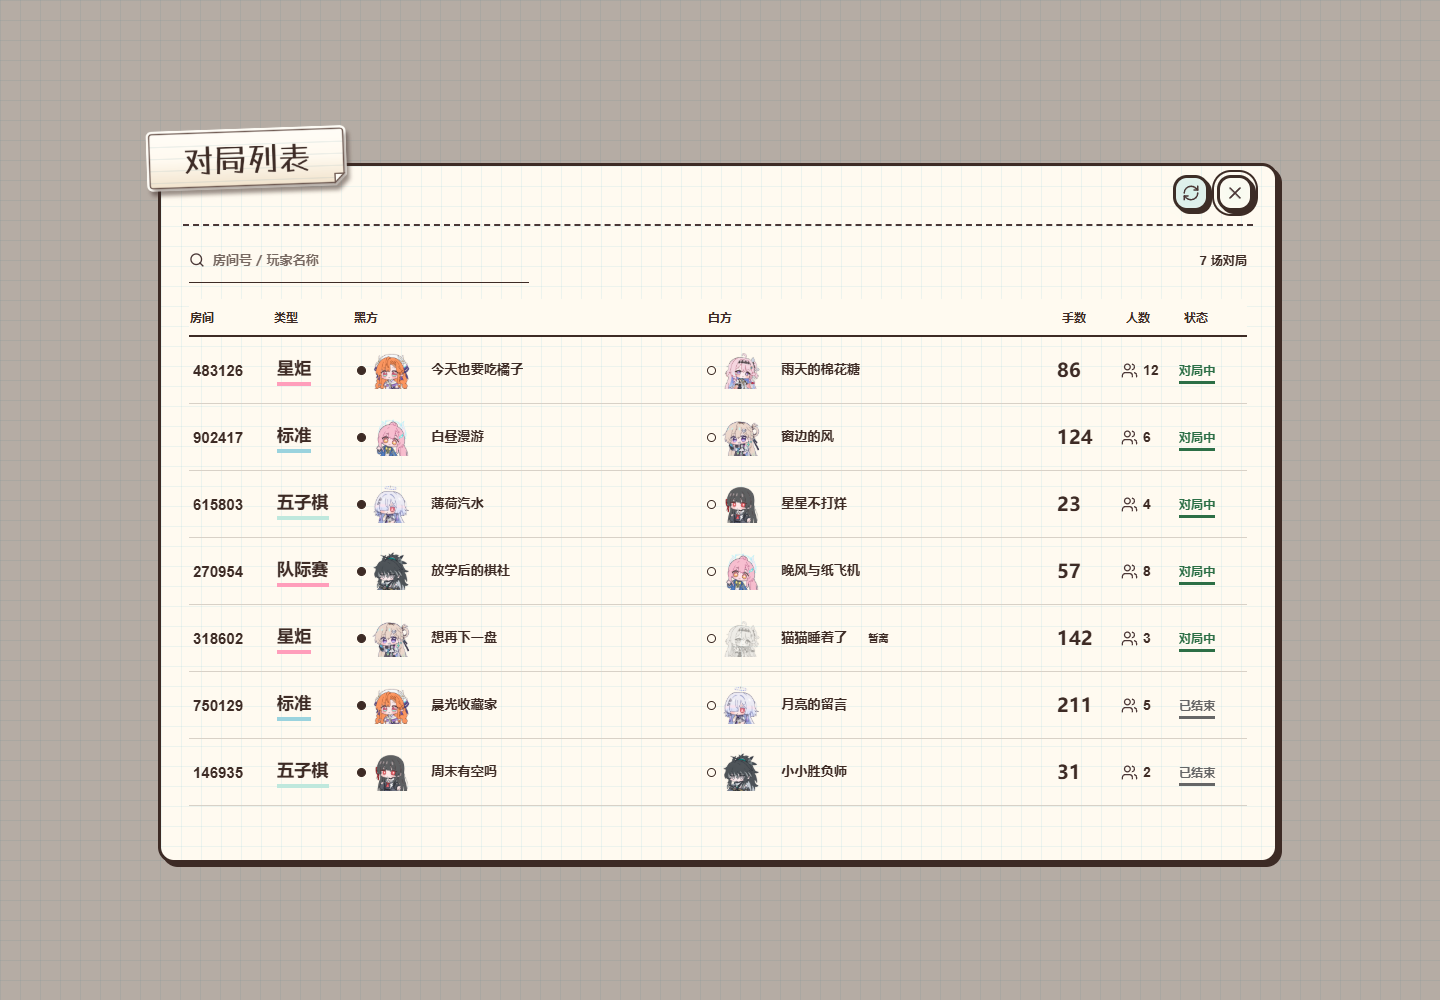
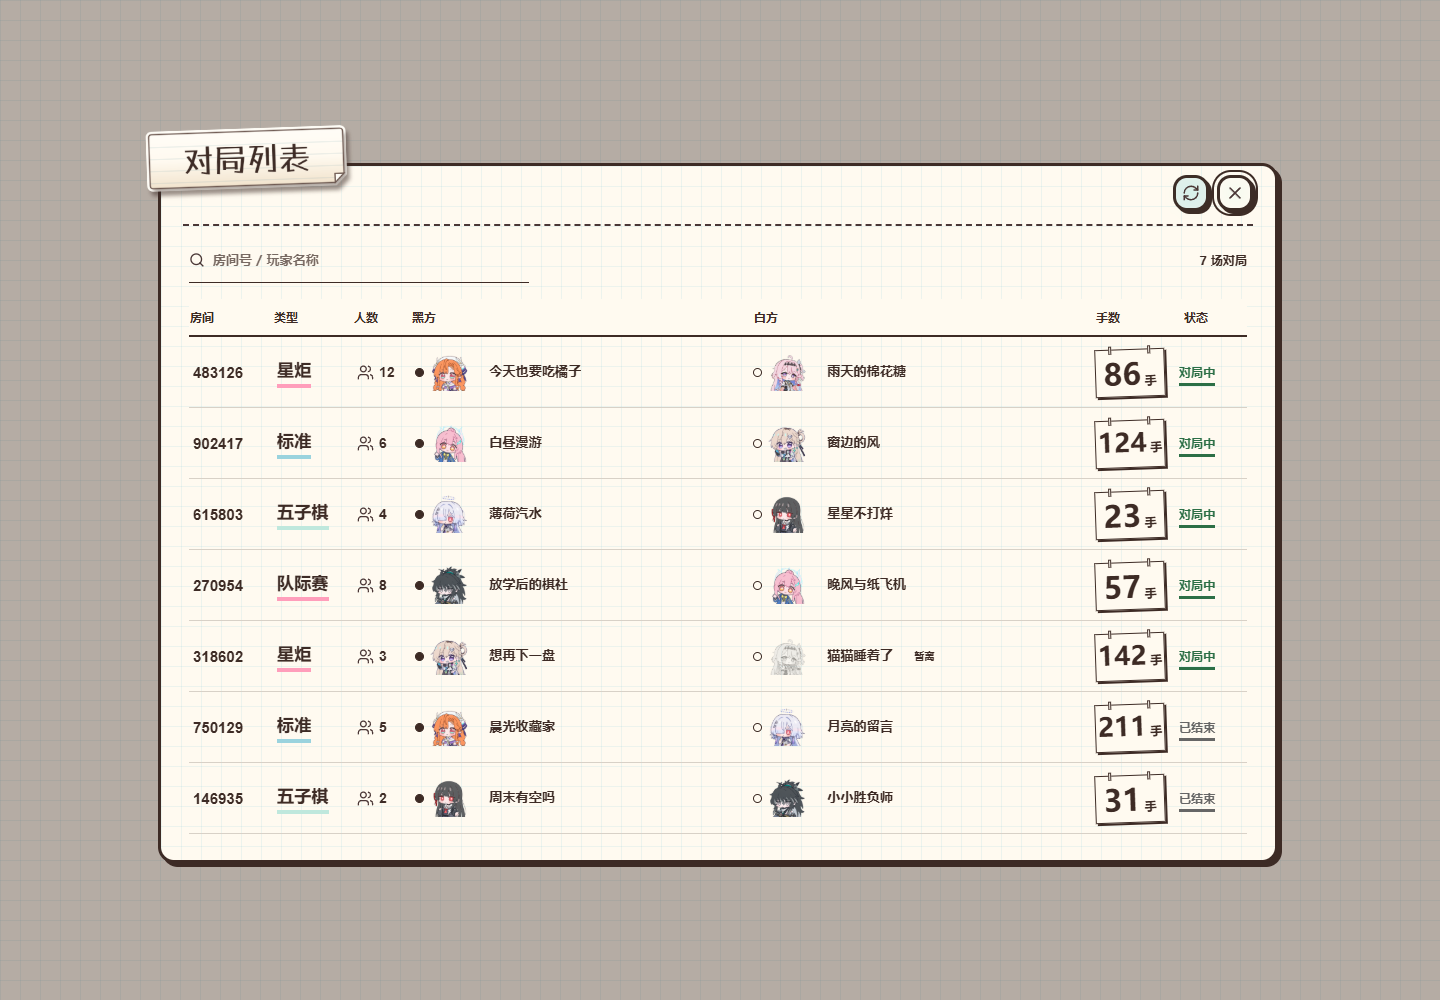
style(watch): share move placards and reorder desktop population

diff --git a/src/styles/cssLayerInventory.js b/src/styles/cssLayerInventory.js
@@ -10,7 +10,7 @@ export const CSS_DEBT_BASELINE = {
   scope: "Window loading adds 1035 normalized bytes, three targeted important declarations and reduced-motion coverage in the existing empty-state owner. Ordinary button states replace three repeated selector lists with one nested state owner, add complete press/focus/disabled/reduced-motion rules, and retire generic icon/action motion selectors. Specialty button opt-in removes dossier, purchase and recruitment state duplication while retaining artwork and geometry. All CSS files under src/styles after the import-only split work, including the focused normal/corrupted theme-transition visual structure and reduced-motion owners, the focused corrupted-duel atmosphere, panel, timer, control, icon, secondary-surface, mobile-readability, portaled system-log, lifecycle, replay/result, and dialogue/fake-skill presentation owners, the ten focused production IRIS Database V2 entry/shell/greeting/portrait/archive/record/theme/typography owners with image-free desktop/mobile art reservations and the scoped Dotted Songti Circle plus WuWa Latin/numeric font stack, the shared and Bright School character-music-player subdomains with the transparent hand-painted radio shell, contained alpha-safe asset geometry, and painted-circle control alignment, admin story node settings CSS and story workbook import feedback, frontend layout polish contracts including story-player padding, game-mode icon watermark/player-plaque/nameplate/utility image contracts, the asset-owned open-starlight rune-ink Semantic Ignition with a persistent rim, separated open-center left-to-right filaments/contour streams, and paired right-tail streaks, Danya off-center pearlescent dream bubble, and Aemeath paper-flight beacon nameplate shells plus their reduced-motion owners, Aemeath exact-ID ice-white username treatment, separated paper-wake and perimeter traces, paired right-tail light, the board-owned Aemeath rainbow grid-trace and particle owners with their reduced-motion fallback, the owned-only holographic memorial-ticket action, isolated Pink Cyber Angel sprite-atlas recruitment cinematic, player-mailbox text-only low-chrome list, completion-state dimming, quiet paper reader, independent item/coin tiles, portaled shop-style item detail, quantity/claimed overlays, light-green mail toast, claimed-attachment action state, and final post-theme readability contract, stable desktop utility-art tilt with direction-preserving hover rotation and scale compensation, tutorial reply-option overflow containment, mobile announcement badge anchoring, mobile utility-image feedback containment, the semantic Bright School login header with its responsive mascot-panel composition and extended layered paper-rule shelf, the dedicated 900px mobile-layout login mascot lockup owner plus accessible auth field, password-visibility, pending, short-height scrolling, and reduced-motion rules, the shared orange preload fill-flow, borderless warm-glow, upright endpoint-glide, and disabled password-toggle centering owners, the shared/theme/final-mobile Zahira shop window plus card-layout isolation, compact-height, badge, desktop raster background, dedicated portrait raster background, and enlarged mascot-copy owner files, the deep-red theatrical costume storefront with a separate card/art owner, portaled wardrobe dialog, split responsive wardrobe layout, Bright School costume overlay owners, and home-scoped portrait width guard, cloud-deployment mobile floating layer tokens, transform-surface compositor hints, semantic home/window title typography, the full-width 16px watch-mode tabs with one-em room-count spacing, the final Bright School practice-entry rotation, reduced-motion behavior, and home-utility hard-shadow parity owner, the shared skill-trait description popover, admin glossary, mobile character-detail scrolling owner rules, the scoped Bright School root scrollbar, final portrait modal shadow-gutter, admin neutral scrollbar owners, and the Bright School unobtained-roster monochrome CRT surface, hidden-intel monitor, and shared signal-fault motion owners.",
   metrics: {
     totalFiles: 732,
-    totalBytes: 1672760,
+    totalBytes: 1672673,
     importantCount: 9772,
     importantFiles: 384,
     hardcodedHexCount: 2465,
@@ -19,6 +19,7 @@ export const CSS_DEBT_BASELINE = {
     highZIndexFiles: 7
   },
   featureDeltas: [
+    "2026-10-13: desktop watch people column follows mode; both viewports share the same 70x48 move placard and long-count sizing. Exact delta -87 normalized bytes; no extra CSS owners, colors or overrides.",
     "2026-10-13: selected mobile watch scoreboard stacks full player identities beside the shared move placard, groups room/count metadata and promotes native whole-row watch actions on both viewports. Split mobile rules into one bounded owner. Exact delta {'totalFiles': 1, 'totalBytes': 1258, 'importantCount': -1, 'importantFiles': 1, 'hardcodedHexCount': 0, 'mediaFiles': 0}.",
     "2026-10-13: watch status uses requested green and neutral gray on desktop and mobile; exact delta 19 normalized bytes, two semantic color literals and two targeted color overrides, no new owner.",
     "2026-10-12: selected watch ledger adds one bounded final owner, 6608 normalized bytes including import, 25 scoped overrides, five existing palette literals, and the existing 768px family; mobile pairs players in a compact 116px row. No stacking or motion growth.",

diff --git a/docs/system-design.html b/docs/system-design.html
@@ -54,7 +54,7 @@
 <body>
 <h1>SigrikaGo 系统设计</h1>
 <h3>2026-10-13 移动端观战方案 1 正式接入</h3>
-<p>计分牌名册已接入正式 <code>WatchModal</code>：手机行首为类型、房间号及人数图标、状态，左侧上下排列双方角色与完整换行昵称，右侧复用对弈 Header 中性手数牌；三位／四位手数适配牌面。桌面保留七列名册，人数显示图标与数字。两端取消独立观战按钮，透明原生按钮覆盖整行，鼠标／触摸／Enter／Space 复用加入并关闭窗口流程。保留原图片标题、边框背景阴影、固定窗口高度、绿色对局中和灰色已结束；搜索、刷新和 API 不变。样式分为 <code>watch-ledger.css</code> 与 <code>watch-ledger-mobile.css</code> 两个有限范围文件。<a href="./design-samples/watch-mobile-2026-10-13/production-desktop.png">桌面截图</a>／<a href="./design-samples/watch-mobile-2026-10-13/production-mobile.png">手机截图</a>由正式组件配隔离样板数据渲染。</p>
+<p>计分牌名册已接入正式 <code>WatchModal</code>：手机行首为类型、房间号及人数图标、状态，左侧上下排列双方角色与完整换行昵称，右侧复用对弈 Header 中性手数牌；三位／四位手数适配牌面。桌面七列顺序为房间、类型、人数、黑方、白方、手数、状态；人数显示图标与数字，手数与手机共用 70×48 纸质计分牌及三位／四位数字适配。两端取消独立观战按钮，透明原生按钮覆盖整行，鼠标／触摸／Enter／Space 复用加入并关闭窗口流程。保留原图片标题、边框背景阴影、固定窗口高度、绿色对局中和灰色已结束；搜索、刷新和 API 不变。样式分为 <code>watch-ledger.css</code> 与 <code>watch-ledger-mobile.css</code> 两个有限范围文件。<a href="./design-samples/watch-mobile-2026-10-13/production-desktop.png">桌面截图</a>／<a href="./design-samples/watch-mobile-2026-10-13/production-mobile.png">手机截图</a>由正式组件配隔离样板数据渲染。</p>
 <h3>2026-10-13 移动端观战布局复审样板</h3>
 <p>新增<a href="./design-samples/watch-mobile-2026-10-13/index.html">手机三版比较页</a>，按用户最新反馈将纯文字方案重做为计分牌名册、中央对阵牌、赛程票签：手数复用对弈 Header <code>.room-move-placard</code> 的挂环、纸面描边和硬阴影；人数使用紧随房间号的双人图标＋数字，三版恢复角色头像与黑白棋子角标。牌面中性，不推测当前行棋方，三位／四位数字单独适配。昵称 14px 完整换行，原窗口外观和整行点击保留，样板点击后关闭列表；四种手机尺寸及正常、长昵称大数值、多对局、空状态共 48 组验证。三版比较页保留，用户已选定方案 1 并正式接入（见上）；对局中绿色、已结束灰色同步到正式列表的桌面及手机状态文字与下划线，接口不变。<a href="./design-samples/watch-mobile-2026-10-13/README.md">复审记录</a>。</p>
 <h3>2026-10-12 观战赛事名册正式接入</h3>

diff --git a/src/modals/watch/WatchRoomRow.jsx b/src/modals/watch/WatchRoomRow.jsx
@@ -9,10 +9,10 @@ export default function WatchRoomRow({ room, characters, onJoinRoom, onClose }) 
   return <tr className={`wl-row ${room.status === "finished" ? "finished" : ""}`}>
     <td className="wl-code">{room.code}</td>
     <td className={`wl-mode mode-${mode.id}`}><span>{mode.shortTitle}</span></td>
+    <td className="wl-people" title="房间人数" aria-label={`房间人数 ${room.onlineCount}`}><Users size={17} strokeWidth={1.8} aria-hidden="true"/><b>{room.onlineCount}</b></td>
     <td className="wl-black"><WatchPlayerCell player={room.black} characters={characters} side="black"/></td>
     <td className="wl-white"><WatchPlayerCell player={room.white} characters={characters} side="white"/></td>
-    <td className="wl-moves"><span className="wl-desktop-moves">{room.moveNumber}</span><span className="room-header-scoreboard wl-placard"><span className="room-scoreboard-identity"><span className={`room-move-placard${room.moveNumber >= 1000 ? " is-long-count" : room.moveNumber >= 100 ? " is-medium-count" : ""}`}><strong>{room.moveNumber}</strong><span>手</span></span></span></span></td>
-    <td className="wl-people" title="房间人数" aria-label={`房间人数 ${room.onlineCount}`}><Users size={17} strokeWidth={1.8} aria-hidden="true"/><b>{room.onlineCount}</b></td>
+    <td className="wl-moves"><span className="room-header-scoreboard wl-placard"><span className="room-scoreboard-identity"><span className={`room-move-placard${room.moveNumber >= 1000 ? " is-long-count" : room.moveNumber >= 100 ? " is-medium-count" : ""}`}><strong>{room.moveNumber}</strong><span>手</span></span></span></span></td>
     <td className="wl-status"><span>{statusTextForWatchRoom(room)}</span></td>
     <td className="wl-action"><button type="button" aria-label={`观战房间 ${room.code}`} onClick={() => joinWatchRoomFromList(room, { emitJoin: onJoinRoom, onClose })}/></td>
   </tr>;

diff --git a/src/styles/mobile-adaptive/watch-ledger.css b/src/styles/mobile-adaptive/watch-ledger.css
@@ -37,7 +37,13 @@
   .offline > img { filter: grayscale(1); opacity: .5; }
   .wl-moves { font: 700 19px Arial, sans-serif; font-variant-numeric: tabular-nums; }
   .wl-people { display: flex; align-items: center; gap: 5px; font: 14px Arial, sans-serif; font-variant-numeric: tabular-nums; }
-  .wl-placard { display: none; }
+  .wl-placard { display: flex; justify-content: center; padding: 5px 3px 3px; }
+  .room-scoreboard-identity { width: 100%; justify-content: center; }
+  .room-scoreboard-identity .room-move-placard { flex: none; width: 70px; height: 48px; min-width: 0; padding: 9px 3px 3px; gap: 3px; background: var(--wl-paper); color: var(--wl-ink); transform: rotate(-2deg); }
+  .room-move-placard strong { font-size: 30px; }
+  .room-move-placard > span { font-size: 12px; }
+  .room-move-placard.is-medium-count strong { font-size: 26px; }
+  .room-move-placard.is-long-count strong { font-size: 20px; }
   .wl-status > span { color: #2c6f46 !important; white-space: nowrap; font-size: 12px; border-bottom: 3px solid currentColor; padding-bottom: 3px; }
   .finished .wl-status > span { color: #666 !important; }
   .wl-table .wl-action { position: absolute; inset: 0; }
@@ -45,6 +51,6 @@
   .wl-row:has(.wl-action button:hover) { background: color-mix(in srgb, var(--wl-mint) 24%, var(--wl-paper)); }
   .wl-action button:focus-visible { outline: 2px solid var(--wl-ink); outline-offset: -2px; }
   .wl-scroll > .window-empty-state { min-height: 260px; }
-  &.wl-ledger .wl-table tr { grid-template-columns: 74px 70px minmax(150px, 1fr) minmax(150px, 1fr) 54px 48px 64px; }
+  &.wl-ledger .wl-table tr { grid-template-columns: 74px 70px 48px minmax(150px, 1fr) minmax(150px, 1fr) 78px 64px; }
   &.wl-ledger .wl-table thead { border-bottom: 2px solid var(--wl-ink); }
 }

diff --git a/src/modals/WatchModal.jsx b/src/modals/WatchModal.jsx
@@ -66,7 +66,7 @@ export default function WatchModal({ token, characters, onJoinRoom, onNotice, on
         </div>
         <div className="wl-scroll" aria-busy={loading}>
           {visibleRooms.length > 0 && <table className="wl-table" aria-label="全部类型对局">
-            <thead><tr><th scope="col">房间</th><th scope="col">类型</th><th scope="col">黑方</th><th scope="col">白方</th><th scope="col">手数</th><th scope="col" title="房间人数">人数</th><th scope="col">状态</th><th scope="col" className="wl-sr-only">进入观战</th></tr></thead>
+            <thead><tr><th scope="col">房间</th><th scope="col">类型</th><th scope="col" title="房间人数">人数</th><th scope="col">黑方</th><th scope="col">白方</th><th scope="col">手数</th><th scope="col">状态</th><th scope="col" className="wl-sr-only">进入观战</th></tr></thead>
             <tbody>{visibleRooms.map((room) => <WatchRoomRow key={watchRoomRowKey(room)} room={room} characters={characters} onJoinRoom={onJoinRoom} onClose={onClose}/>)}</tbody>
           </table>}
           {!loading && !error && visibleRooms.length === 0 && <WindowEmptyState>{search ? "未找到对局" : "暂无对局"}</WindowEmptyState>}

diff --git a/src/styles/mobile-adaptive/watch-ledger-mobile.css b/src/styles/mobile-adaptive/watch-ledger-mobile.css
@@ -24,13 +24,6 @@
     .wl-player .user-identity-name { font: 14px/1.4 var(--font-ui-default); white-space: normal !important; overflow-wrap: anywhere; overflow: visible; text-overflow: clip; }
     .wl-offline { font-size: 12px; }
     .wl-moves { grid-area: moves; }
-    .wl-desktop-moves { display: none; }
-    .wl-placard { display: flex; justify-content: center; padding: 5px 3px 3px; }
-    .room-scoreboard-identity { width: 100%; justify-content: center; }
-    .room-scoreboard-identity .room-move-placard { flex: none; width: 70px; height: 48px; min-width: 0; padding: 9px 3px 3px; gap: 3px; background: var(--wl-paper); color: var(--wl-ink); transform: rotate(-2deg); }
-    .room-move-placard strong { font-size: 30px; }
-    .room-move-placard > span { font-size: 12px; }
-    .room-move-placard.is-medium-count strong { font-size: 26px; }
-    .room-move-placard.is-long-count strong { font-size: 20px; }
+
   }
 }

diff --git a/src/modals/WatchModal.test.js b/src/modals/WatchModal.test.js
@@ -41,7 +41,7 @@ describe("WatchModal helpers", () => {
     const css = readCssWithImports(new URL("../styles/mobile-adaptive/watch-ledger.css", import.meta.url));
     const mobile = readCssWithImports(new URL("../styles/mobile-adaptive/watch-ledger-mobile.css", import.meta.url));
     expect(mobile).toContain("overflow-wrap: anywhere");
-    expect(mobile).toContain(".room-move-placard");
+    expect(css).toContain(".room-move-placard");
     expect(css).toContain("var(--window-sticker-available-height)");
     expect(css).toContain(".wl-scroll { flex: 1; min-height: 0; overflow: auto;");
     const html = renderToStaticMarkup(createElement(WatchModal, { characters: {} }));

diff --git a/.trellis/spec/frontend/watch-ledger-contract.md b/.trellis/spec/frontend/watch-ledger-contract.md
@@ -9,7 +9,7 @@ Changes to the watch-list layout, mode queries, search or join controls.
 ## Contracts
 Only the literal `all` skips the mode filter; absent and invalid modes retain normalization. Eligibility stays in `listWatchRooms`, including practice and special-story exclusions. Do not interpret `onlineCount` as spectator count. Preserve character appearance snapshots and `UserIdentity` equipment. Clicking the transparent native button covering a room row calls the existing join helper and closes the list; do not simulate room admission.
 
-Remove the bookmark host and all type tabs. Desktop uses a semantic table with a type column. Mobile uses the selected scoreboard roster: type/code/people/status metadata, stacked black/white portraits and names on the left, and a hanging move placard on the right. Names wrap at 14px; metadata stays at least 12px. Keep room counts next to the code and label them as room population. Reuse the neutral battle-header placard without inventing a current turn; scale three/four-digit counts. Desktop retains separate ledger columns. Both viewports expose one full-row native button without visible action text; Enter and Space join exactly once. Keep 44px action targets and original shell artwork. `watch-ledger.css` and `watch-ledger-mobile.css` precede the final spectator owner. Playing status uses green text and underline; finished status uses neutral gray on desktop and mobile, with explicit status text retained. Shell height is 700px desktop / 740px mobile capped by the shared sticker budget; only the list scrolls.
+Remove the bookmark host and all type tabs. Desktop uses a semantic table with a type column. Mobile uses the selected scoreboard roster: type/code/people/status metadata, stacked black/white portraits and names on the left, and a hanging move placard on the right. Names wrap at 14px; metadata stays at least 12px. Keep room counts next to the code and label them as room population. Reuse the neutral battle-header placard without inventing a current turn; scale three/four-digit counts. Desktop columns are room, mode, population, black, white, moves and status. Both viewports share the same 70x48 hanging move placard and long-count sizing; keep the move track wide enough for its rotation and shadow. Both viewports expose one full-row native button without visible action text; Enter and Space join exactly once. Keep 44px action targets and original shell artwork. `watch-ledger.css` and `watch-ledger-mobile.css` precede the final spectator owner. Playing status uses green text and underline; finished status uses neutral gray on desktop and mobile, with explicit status text retained. Shell height is 700px desktop / 740px mobile capped by the shared sticker budget; only the list scrolls.
 
 ## Validation / Error Matrix
 Initial loading has no empty state. A failed refresh retains previous rows and exposes the error; a successful retry clears it. Empty search results use `WindowEmptyState`. Invalidate obsolete requests on token changes and unmount. Search never makes API requests.

diff --git a/docs/system-design.md b/docs/system-design.md
@@ -2,7 +2,7 @@
 
 ### 2026-10-13 移动端观战方案 1 正式接入
 
-计分牌名册已接入正式 `WatchModal`：手机行首为类型、房间号及人数图标、状态，左侧上下排列双方角色与完整换行昵称，右侧复用对弈 Header 中性手数牌；三位／四位手数适配牌面。桌面保留七列名册，人数显示图标与数字。两端取消独立观战按钮，透明原生按钮覆盖整行，鼠标／触摸／Enter／Space 复用加入并关闭窗口流程。保留原图片标题、边框背景阴影、固定窗口高度、绿色对局中和灰色已结束；搜索、刷新和 API 不变。样式分为 `watch-ledger.css` 与 `watch-ledger-mobile.css` 两个有限范围文件。[桌面截图](./design-samples/watch-mobile-2026-10-13/production-desktop.png)／[手机截图](./design-samples/watch-mobile-2026-10-13/production-mobile.png)由正式组件配隔离样板数据渲染。
+计分牌名册已接入正式 `WatchModal`：手机行首为类型、房间号及人数图标、状态，左侧上下排列双方角色与完整换行昵称，右侧复用对弈 Header 中性手数牌；三位／四位手数适配牌面。桌面七列顺序为房间、类型、人数、黑方、白方、手数、状态；人数显示图标与数字，手数与手机共用 70×48 纸质计分牌及三位／四位数字适配。两端取消独立观战按钮，透明原生按钮覆盖整行，鼠标／触摸／Enter／Space 复用加入并关闭窗口流程。保留原图片标题、边框背景阴影、固定窗口高度、绿色对局中和灰色已结束；搜索、刷新和 API 不变。样式分为 `watch-ledger.css` 与 `watch-ledger-mobile.css` 两个有限范围文件。[桌面截图](./design-samples/watch-mobile-2026-10-13/production-desktop.png)／[手机截图](./design-samples/watch-mobile-2026-10-13/production-mobile.png)由正式组件配隔离样板数据渲染。
 
 ### 2026-10-13 移动端观战布局复审样板
 

diff --git a/docs/design-samples/watch-mobile-2026-10-13/README.md b/docs/design-samples/watch-mobile-2026-10-13/README.md
@@ -35,3 +35,5 @@
 用户选定计分牌名册，已接入正式 WatchModal；桌面保留七列名册，两端整行原生按钮进入观战。手机保持完整换行昵称、房间旁人数及中性手数牌。桌面／手机截图为正式组件配隔离样板数据，不代表在线房间。`node docs/design-samples/watch-mobile-2026-10-13/verify-production.mjs` 验证 320／360／390／430／1440px 的正常、长昵称大数值、多对局及空状态，以及整行点击和 Enter／Space。
 
 验证结果：正式组件 20 组浏览器检查、9 项观战测试、范围内 ESLint 和生产构建通过。全局 CSS 清单仍有本轮前已存在的两项失败：基线超出 889 字节、匹配模式标题的 360px 断点未登记；本轮仅登记观战样式的精确增量。
+
+桌面跟进：列序调整为房间／类型／人数／黑方／白方／手数／状态；手数与手机共用 70×48 纸质计分牌和大数值样式，更新桌面截图并复验两端。

diff --git a/.trellis/tasks/10-13-watch-mobile-layouts/prd.md b/.trellis/tasks/10-13-watch-mobile-layouts/prd.md
@@ -18,3 +18,5 @@ User rejected the dry text layout. All three previews now use real header move-p
 ## 方案 1 正式接入
 
 用户选定计分牌名册。手机采用类型／房间与人数／状态、左侧上下玩家与右侧手数牌；桌面保留名册列。两端整行点击进入观战并关闭窗口，移除独立观战按钮。交付正式组件的桌面与手机截图，验证键盘、长昵称、大数值及空／多对局。
+
+桌面跟进：人数列移动到类型列之后，手数共用手机版纸质计分牌。手机布局保持一致。
